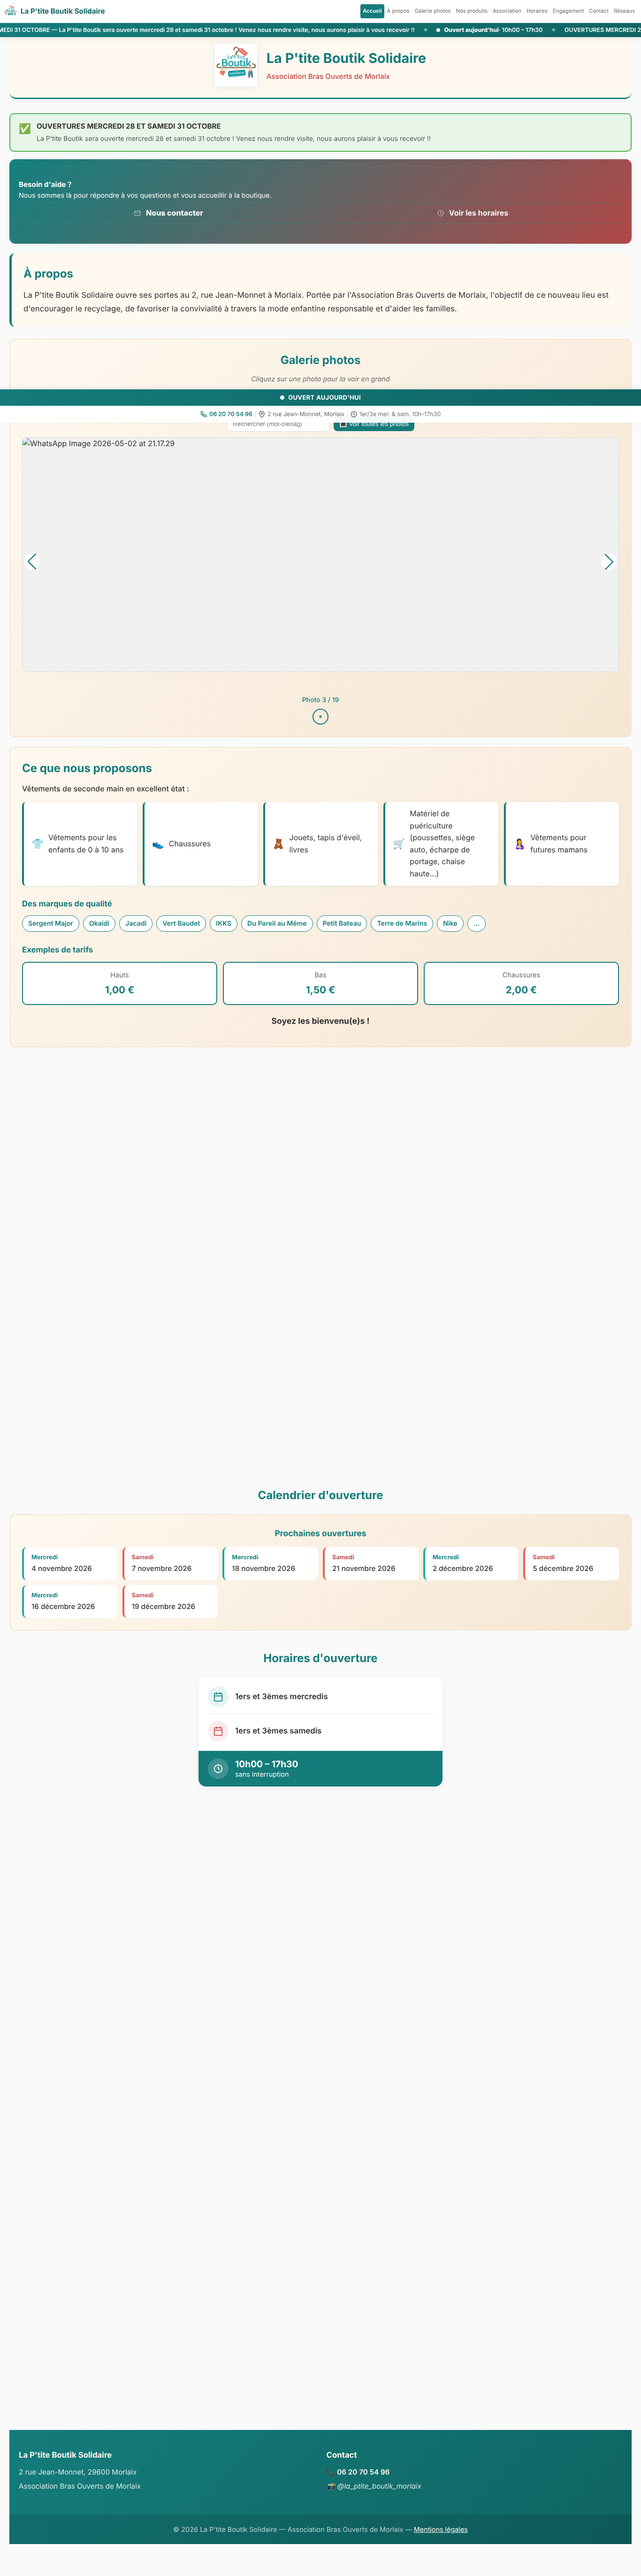
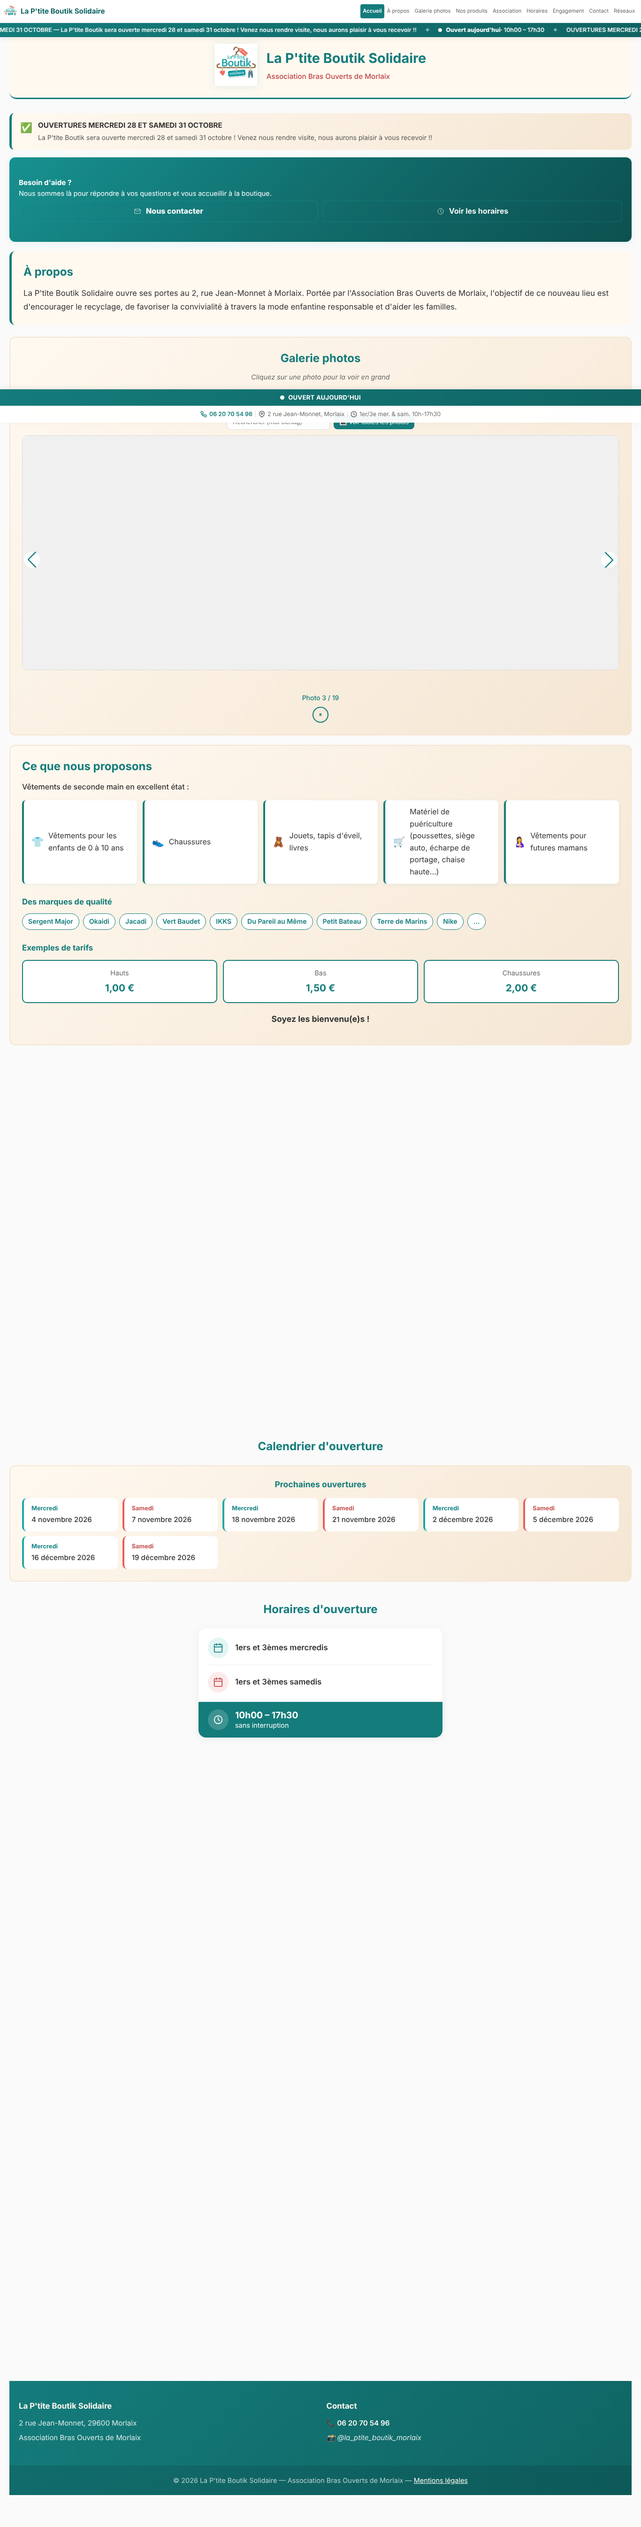
Couleurs : dégradés d'accueil sans passage gris, actualité en sable
- Encart d'accueil : nouveau défaut « Turquoise et halo corail » à la place
  de l'ancien turquoise → corail, qui passait par un gris terne
- Admin : quatre nouveaux dégradés au choix (halo corail, turquoise dégradé,
  corail chaud, crépuscule), aperçu identique au site (heroGradient.js)
- Case d'actualité : fond sable et liseré turquoise au lieu du vert

Claude-Session: https://claude.ai/code/session_01YFD7o4vKzU6Zz7kLnFnVUp

diff --git a/src/components/AdminPanel.vue b/src/components/AdminPanel.vue
@@ -312,12 +312,13 @@
                     v-for="p in gradientPresets"
                     :key="p.name"
                     class="preset-swatch"
-                    :style="{ background: `linear-gradient(${textesValues.hero_gradient_angle || 135}deg, ${p.start} 0%, ${p.end} 100%)` }"
+                    :class="{ active: heroBackground(textesValues) === presetCss(p) }"
+                    :style="{ background: presetCss(p) }"
                     :title="p.name"
                     @click="applyGradientPreset(p)"
                   ></button>
                 </div>
-                <div class="gradient-preview" :style="{ background: `linear-gradient(${textesValues.hero_gradient_angle || 135}deg, ${textesValues.hero_gradient_start || '#1BA9A8'} 0%, ${textesValues.hero_gradient_end || '#E95E5E'} 100%)` }">
+                <div class="gradient-preview" :style="{ background: heroBackground(textesValues) }">
                   <span>Aperçu du dégradé</span>
                 </div>
               </div>
@@ -334,8 +335,8 @@
 
                 <!-- Color picker -->
                 <div v-else-if="field.type === 'color'" class="color-input-row">
-                  <input type="color" v-model="textesValues[field.id]" class="input-color" />
-                  <input type="text" v-model="textesValues[field.id]" class="input-text" placeholder="#000000" style="width:110px;flex:none" />
+                  <input type="color" v-model="textesValues[field.id]" class="input-color" @input="onFieldEdited(field.id)" />
+                  <input type="text" v-model="textesValues[field.id]" class="input-text" placeholder="#000000" style="width:110px;flex:none" @input="onFieldEdited(field.id)" />
                   <div class="color-palette">
                     <button
                       v-for="c in COLOR_PALETTE" :key="c"
@@ -353,6 +354,7 @@
                   v-else-if="field.type === 'number'"
                   type="number"
                   v-model.number="textesValues[field.id]"
+                  @input="onFieldEdited(field.id)"
                   class="input-text"
                   style="width:90px"
                   :placeholder="field.default"
@@ -722,6 +724,7 @@
 </template>
 
 <script setup>
+import { HERO_PRESETS, heroBackground } from '../composables/heroGradient.js'
 import { ref, onMounted, onUnmounted, watch, computed } from 'vue'
 import PhotoEraser from './PhotoEraser.vue'
 import AdminCalendar from './AdminCalendar.vue'
@@ -858,7 +861,8 @@ const moveBlocDown = (i) => {
 
 // Présets dégradés
 const gradientPresets = [
-  { name: 'Teal → Coral (défaut)', start: '#1BA9A8', end: '#E95E5E' },
+  ...HERO_PRESETS,
+  { name: 'Teal → Coral (ancien défaut)', start: '#1BA9A8', end: '#E95E5E' },
   { name: 'Coral → Teal', start: '#E95E5E', end: '#1BA9A8' },
   { name: 'Teal → Beige', start: '#1BA9A8', end: '#F5E6D3' },
   { name: 'Coral → Beige', start: '#E95E5E', end: '#F5E6D3' },
@@ -867,9 +871,19 @@ const gradientPresets = [
   { name: 'Vert → Teal', start: '#059669', end: '#1BA9A8' },
   { name: 'Marron → Beige', start: '#8B6F47', end: '#F5E6D3' },
 ]
+const presetCss = (p) => p.css || `linear-gradient(${textesValues.value.hero_gradient_angle || 135}deg, ${p.start} 0%, ${p.end} 100%)`
 const applyGradientPreset = (p) => {
-  textesValues.value.hero_gradient_start = p.start
-  textesValues.value.hero_gradient_end = p.end
+  if (p.css) {
+    textesValues.value.hero_gradient_css = p.css
+  } else {
+    textesValues.value.hero_gradient_css = ''
+    textesValues.value.hero_gradient_start = p.start
+    textesValues.value.hero_gradient_end = p.end
+  }
+}
+// Une couleur ou un angle réglé à la main remplace le préset choisi
+const onFieldEdited = (fieldId) => {
+  if (fieldId.startsWith('hero_gradient_')) textesValues.value.hero_gradient_css = ''
 }
 
 // Fermetures
@@ -947,6 +961,7 @@ const loadBlocs = () => {
   hero_gradient_start: '#1BA9A8',
   hero_gradient_end: '#E95E5E',
   hero_gradient_angle: 135,
+  hero_gradient_css: '',
   // Hero boutons
   hero_btn1_label: 'Voir les horaires',
   hero_btn1_visible: true,
@@ -1871,6 +1886,7 @@ const COLOR_PALETTE = [
 
 const applyColor = (fieldId, color) => {
   textesValues.value[fieldId] = color
+  onFieldEdited(fieldId)
 }
  const applyRegleColor = (regle, color) => {
    regle.color = color
@@ -3017,6 +3033,7 @@ const loadData = () => {
   cursor: pointer;
   transition: transform 0.15s, box-shadow 0.15s;
 }
+.preset-swatch.active { outline: 3px solid #333; outline-offset: 2px; }
 .preset-swatch:hover {
   transform: scale(1.15);
   box-shadow: 0 3px 10px rgba(0,0,0,0.2);

diff --git a/src/components/Hero.vue b/src/components/Hero.vue
@@ -27,15 +27,13 @@
 <script setup>
 import { computed } from 'vue'
 import { useTextes } from '../composables/useTextes.js'
+import { heroBackground } from '../composables/heroGradient.js'
 
 const textes = useTextes()
 
 const mailSvg = '<svg width="16" height="16" viewBox="0 0 24 24" fill="none" xmlns="http://www.w3.org/2000/svg"><path d="M3 6.5C3 5.67157 3.67157 5 4.5 5H19.5C20.3284 5 21 5.67157 21 6.5V17.5C21 18.3284 20.3284 19 19.5 19H4.5C3.67157 19 3 18.3284 3 17.5V6.5Z" stroke="currentColor" stroke-width="1.2" stroke-linecap="round" stroke-linejoin="round"/><path d="M21 6.5L12 12.5L3 6.5" stroke="currentColor" stroke-width="1.2" stroke-linecap="round" stroke-linejoin="round"/></svg>'
 const clockSvg = '<svg width="16" height="16" viewBox="0 0 24 24" fill="none" xmlns="http://www.w3.org/2000/svg"><circle cx="12" cy="12" r="9" stroke="currentColor" stroke-width="1.2"/><path d="M12 7v6l4 2" stroke="currentColor" stroke-width="1.2" stroke-linecap="round" stroke-linejoin="round"/></svg>'
 
-const gradientStart = computed(() => textes.value.hero_gradient_start || '#1BA9A8')
-const gradientEnd = computed(() => textes.value.hero_gradient_end || '#E95E5E')
-const gradientAngle = computed(() => textes.value.hero_gradient_angle ?? 135)
 const btn1Label = computed(() => textes.value.hero_btn1_label || 'Horaires')
 const btn2Label = computed(() => textes.value.hero_btn2_label || 'Nous contacter')
 const contactTitle = computed(() => textes.value.hero_contact_title || "Besoin d'aide ?")
@@ -43,9 +41,7 @@ const contactDesc = computed(() => textes.value.hero_contact_desc || "Nous somme
 const iconHtml = computed(() => textes.value.hero_btn2_icon || mailSvg)
 const btn1IconHtml = computed(() => textes.value.hero_btn1_icon || clockSvg)
 
-const heroStyle = computed(() => ({
-  background: `linear-gradient(${gradientAngle.value}deg, ${gradientStart.value} 0%, ${gradientEnd.value} 100%)`
-}))
+const heroStyle = computed(() => ({ background: heroBackground(textes.value) }))
 
 function scrollTo(id) {
   const el = document.getElementById(id)
@@ -85,7 +81,7 @@ function scrollTo(id) {
 .full-btn:hover { transform: translateY(-2px); background: linear-gradient(180deg, var(--primary-teal), var(--primary-teal-dark)); color: white; border-color: rgba(27,169,168,0.28) }
 
 /* Voile sombre : garde le texte blanc lisible quelles que soient les couleurs choisies dans l'admin (RGAA 3.2) */
-.hero-overlay { position:absolute; inset:0; border-radius:15px; background: rgba(0,0,0,0.24); pointer-events:none }
+.hero-overlay { position:absolute; inset:0; border-radius:15px; background: rgba(0,0,0,0.14); pointer-events:none }
 
 .btn-icon { display:inline-flex; align-items:center; justify-content:center }
 .btn-icon svg { display:block; width:18px; height:18px }

diff --git a/src/composables/heroGradient.js b/src/composables/heroGradient.js
@@ -1,0 +1,19 @@
+// Dégradé de l'encart d'accueil, partagé par le site et l'aperçu de l'admin.
+// L'ancien défaut turquoise → corail passait par un gris terne : il est remplacé
+// par le nouveau défaut, tant qu'aucun autre dégradé n'a été choisi dans l'admin.
+export const HERO_PRESETS = [
+  { name: 'Turquoise et halo corail (défaut)', css: 'radial-gradient(120% 90% at 100% 100%, rgba(233,94,94,0.95) 0%, rgba(233,94,94,0) 60%), linear-gradient(135deg, #1A9897 0%, #0F6463 100%)' },
+  { name: 'Turquoise dégradé', css: 'linear-gradient(135deg, #1BA9A8 0%, #147C7B 55%, #0F5F5E 100%)' },
+  { name: 'Corail chaud', css: 'linear-gradient(135deg, #B5473F 0%, #D9774B 100%)' },
+  { name: 'Crépuscule', css: 'linear-gradient(135deg, #147C7B 0%, #2F6A9A 35%, #6E4F94 65%, #BE4545 100%)' },
+]
+export const HERO_DEFAULT = HERO_PRESETS[0].css
+
+// Valeur CSS du fond de l'encart, à partir des textes enregistrés
+export function heroBackground(t = {}) {
+  if (t.hero_gradient_css) return t.hero_gradient_css
+  const start = (t.hero_gradient_start || '').toUpperCase()
+  const end = (t.hero_gradient_end || '').toUpperCase()
+  if (!start || (start === '#1BA9A8' && end === '#E95E5E')) return HERO_DEFAULT
+  return `linear-gradient(${t.hero_gradient_angle ?? 135}deg, ${t.hero_gradient_start} 0%, ${t.hero_gradient_end || start} 100%)`
+}

diff --git a/src/components/ActuBanner.vue b/src/components/ActuBanner.vue
@@ -1,11 +1,11 @@
 <template>
-  <div class="actu-banner" v-if="actu.visible && actu.titre" :class="actu.type" role="alert">
-    <span class="actu-icon">{{ icons[actu.type] }}</span>
+  <aside class="actu-banner" v-if="actu.visible && actu.titre" :class="actu.type" aria-label="Actualité">
+    <span class="actu-icon" aria-hidden="true">{{ icons[actu.type] }}</span>
     <div class="actu-content">
       <strong>{{ actu.titre }}</strong>
       <p v-if="actu.message">{{ actu.message }}</p>
     </div>
-  </div>
+  </aside>
 </template>
 
 <script setup>
@@ -36,17 +36,17 @@ onUnmounted(() => { if (unsubscribe) unsubscribe() })
   border: 2px solid;
 }
 
-.actu-banner.info {
-  background: #e8f4fd;
-  border-color: var(--brand-teal);
+/* Fond sable comme les autres blocs, liseré de couleur selon le type */
+.actu-banner.info,
+.actu-banner.success {
+  background: linear-gradient(135deg, #FFF9F0 0%, #F5E6D3 100%);
+  border: none;
+  border-left: 5px solid var(--primary-teal);
 }
 .actu-banner.warning {
-  background: #FFF3CD;
-  border-color: #FFC107;
-}
-.actu-banner.success {
-  background: #e8f5e9;
-  border-color: #4CAF50;
+  background: #FFF6E0;
+  border: none;
+  border-left: 5px solid #E0A100;
 }
 
 .actu-icon { font-size: 1.3em; flex-shrink: 0; }
